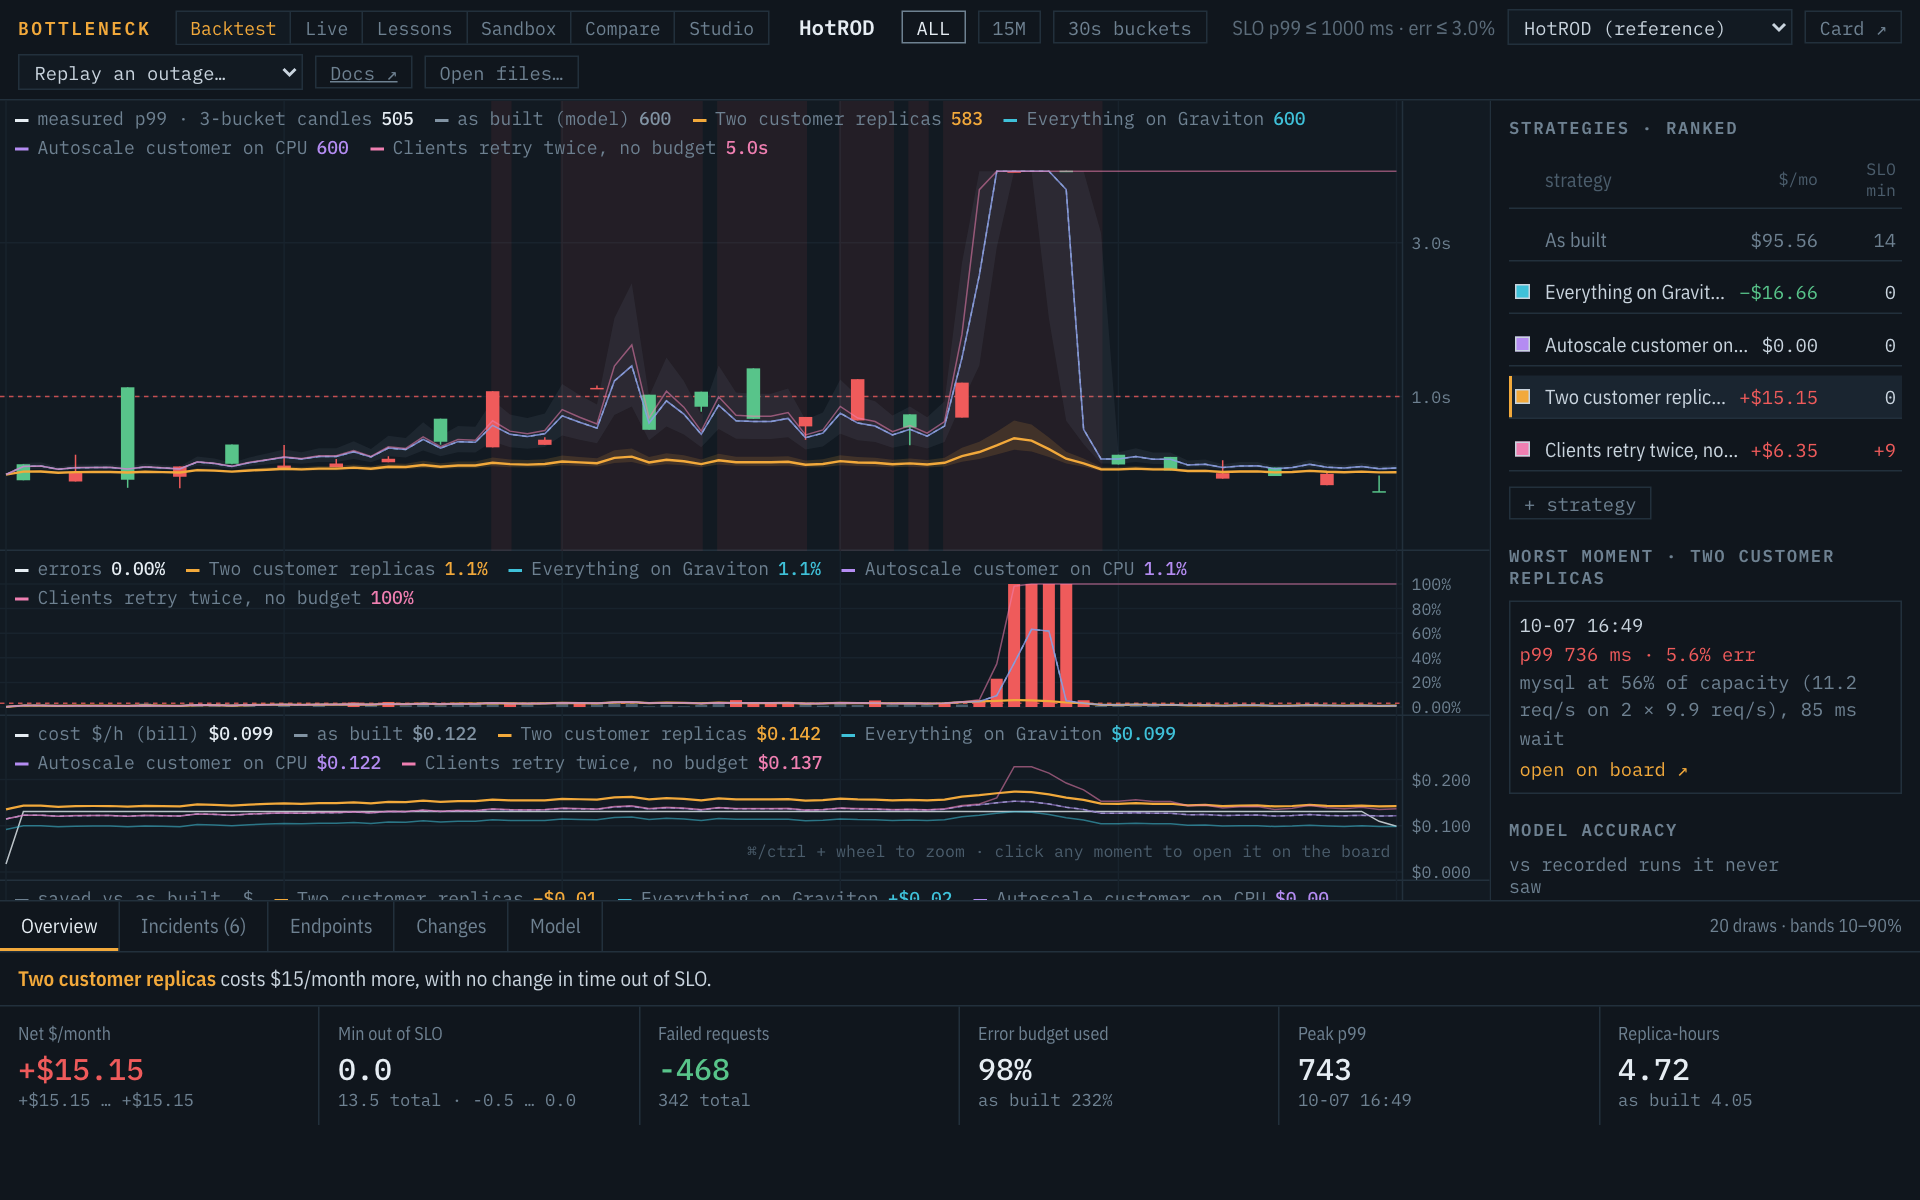
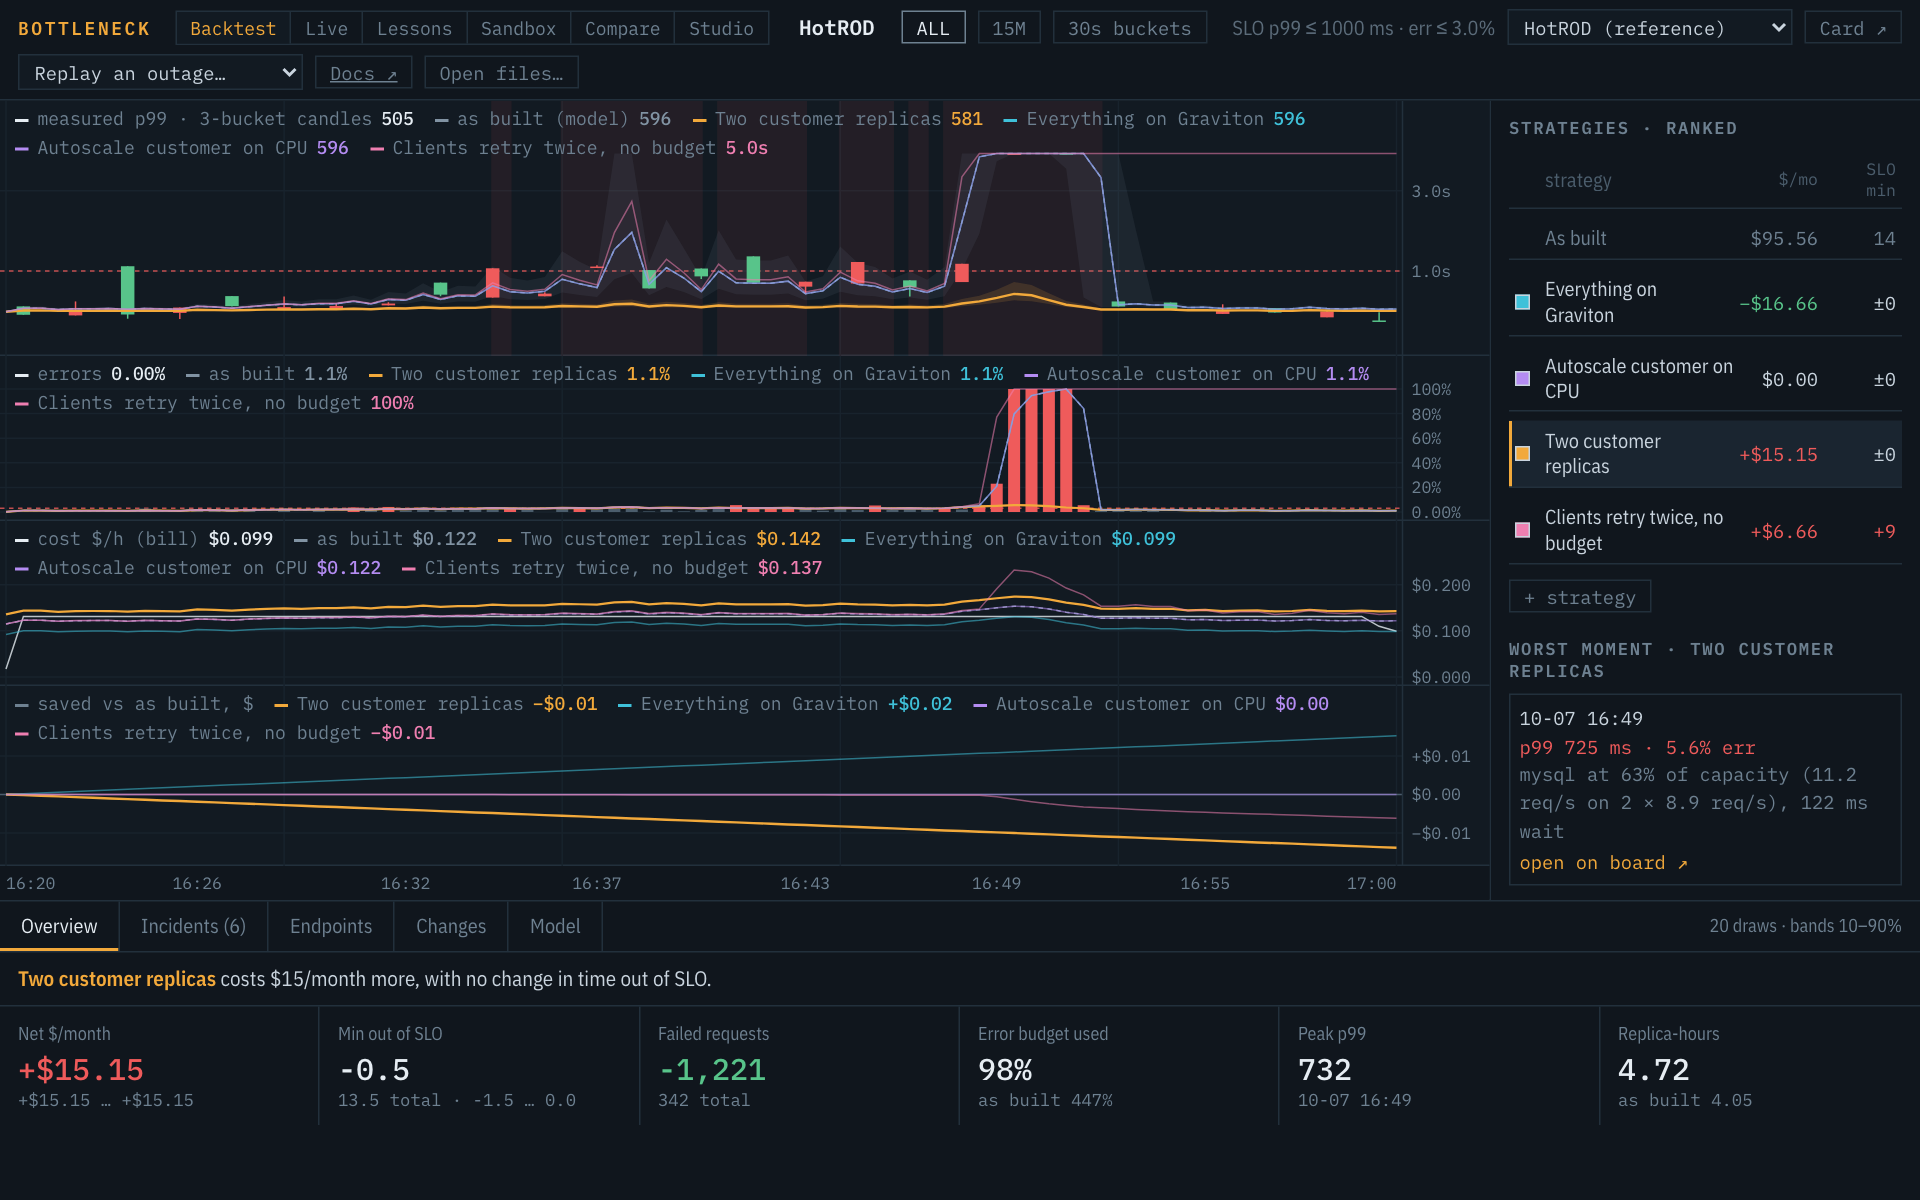
Docs: Backtest screenshots retaken after the layout fixes

diff --git a/public/docs/backtest.html b/public/docs/backtest.html
@@ -26,7 +26,7 @@
   <p class="lede">Your production history as a chart, with any infrastructure change replayed over it as what would have happened. Open it from the <b>Backtest</b> tab, or go straight to <code>/#backtest</code>.</p>
 </header>
 <section class="screen" data-shot="backtest">
-<figure class="shot"><div class="shot-frame"><a class="shot-full" href="shots/backtest.png" target="_blank" rel="noopener" title="Open full size"><img src="shots/backtest.png" width="1280" height="800" alt="The chart and the strategies — screenshot" loading="lazy"></a><a class="pin" href="#backtest-views" data-for="backtest-views" style="left:40.99%;top:2.25%" aria-label="Note 1">1</a><a class="pin" href="#backtest-ranges" data-for="backtest-ranges" style="left:48.62%;top:4.63%" aria-label="Note 2">2</a><a class="pin" href="#backtest-p99" data-for="backtest-p99" style="left:1.25%;top:15.88%" aria-label="Note 3">3</a><a class="pin" href="#backtest-incident" data-for="backtest-incident" style="left:53.27%;top:27.13%" aria-label="Note 4">4</a><a class="pin" href="#backtest-errors" data-for="backtest-errors" style="left:1.25%;top:51.88%" aria-label="Note 5">5</a><a class="pin" href="#backtest-cost" data-for="backtest-cost" style="left:68.98%;top:67.75%" aria-label="Note 6">6</a><a class="pin" href="#backtest-savings" data-for="backtest-savings" style="left:25.78%;top:74.38%" aria-label="Note 7">7</a><a class="pin" href="#backtest-watch" data-for="backtest-watch" style="left:98.59%;top:10.88%" aria-label="Note 8">8</a><a class="pin" href="#backtest-worst" data-for="backtest-worst" style="left:97.81%;top:52%" aria-label="Note 9">9</a><a class="pin" href="#backtest-accuracy" data-for="backtest-accuracy" style="left:99.06%;top:69%" aria-label="Note 10">10</a><a class="pin" href="#backtest-verdict" data-for="backtest-verdict" style="left:39.06%;top:81.65%" aria-label="Note 11">11</a><a class="pin" href="#backtest-stats" data-for="backtest-stats" style="left:14.84%;top:87.19%" aria-label="Note 12">12</a><a class="pin" href="#backtest-system" data-for="backtest-system" style="left:85.94%;top:4.75%" aria-label="Note 13">13</a><a class="pin" href="#backtest-card" data-for="backtest-card" style="left:96.52%;top:4.63%" aria-label="Note 14">14</a><a class="pin" href="#backtest-outage" data-for="backtest-outage" style="left:8.36%;top:8.5%" aria-label="Note 15">15</a><a class="pin" href="#backtest-files" data-for="backtest-files" style="left:26.12%;top:8.38%" aria-label="Note 16">16</a></div></figure>
+<figure class="shot"><div class="shot-frame"><a class="shot-full" href="shots/backtest.png" target="_blank" rel="noopener" title="Open full size"><img src="shots/backtest.png" width="1280" height="800" alt="The chart and the strategies — screenshot" loading="lazy"></a><a class="pin" href="#backtest-views" data-for="backtest-views" style="left:40.99%;top:2.25%" aria-label="Note 1">1</a><a class="pin" href="#backtest-ranges" data-for="backtest-ranges" style="left:48.62%;top:4.63%" aria-label="Note 2">2</a><a class="pin" href="#backtest-p99" data-for="backtest-p99" style="left:1.25%;top:15.88%" aria-label="Note 3">3</a><a class="pin" href="#backtest-incident" data-for="backtest-incident" style="left:53.27%;top:27.13%" aria-label="Note 4">4</a><a class="pin" href="#backtest-errors" data-for="backtest-errors" style="left:1.25%;top:35.63%" aria-label="Note 5">5</a><a class="pin" href="#backtest-cost" data-for="backtest-cost" style="left:68.98%;top:51.5%" aria-label="Note 6">6</a><a class="pin" href="#backtest-savings" data-for="backtest-savings" style="left:25.78%;top:58.13%" aria-label="Note 7">7</a><a class="pin" href="#backtest-watch" data-for="backtest-watch" style="left:98.59%;top:10.88%" aria-label="Note 8">8</a><a class="pin" href="#backtest-worst" data-for="backtest-worst" style="left:97.81%;top:59.73%" aria-label="Note 9">9</a><a class="pin" href="#backtest-accuracy" data-for="backtest-accuracy" style="left:99.06%;top:76.73%" aria-label="Note 10">10</a><a class="pin" href="#backtest-verdict" data-for="backtest-verdict" style="left:39.06%;top:81.65%" aria-label="Note 11">11</a><a class="pin" href="#backtest-stats" data-for="backtest-stats" style="left:14.84%;top:87.19%" aria-label="Note 12">12</a><a class="pin" href="#backtest-system" data-for="backtest-system" style="left:85.94%;top:4.75%" aria-label="Note 13">13</a><a class="pin" href="#backtest-card" data-for="backtest-card" style="left:96.52%;top:4.63%" aria-label="Note 14">14</a><a class="pin" href="#backtest-outage" data-for="backtest-outage" style="left:8.36%;top:8.5%" aria-label="Note 15">15</a><a class="pin" href="#backtest-files" data-for="backtest-files" style="left:26.12%;top:8.38%" aria-label="Note 16">16</a></div></figure>
 <div class="notes">
 <div>
 <h2>The chart and the strategies</h2>
